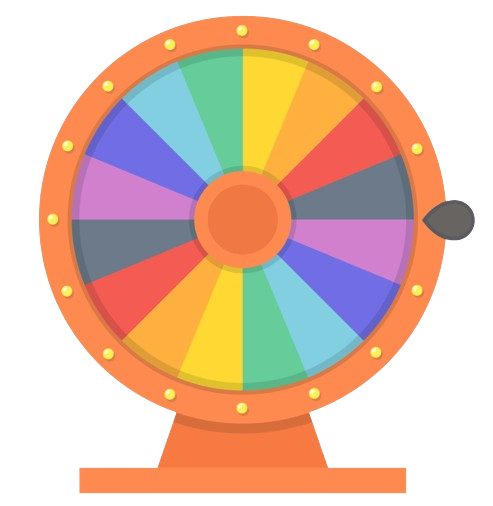
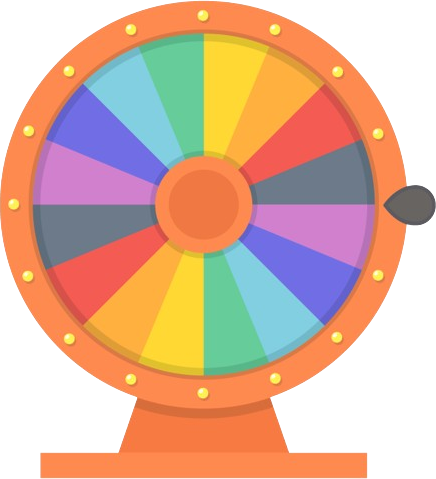
creating folder to make the images be more organized

diff --git a/BussinesTourProject/Pages/GamePage.xaml b/BussinesTourProject/Pages/GamePage.xaml
@@ -1154,8 +1154,8 @@
                    Grid.ColumnSpan="8" Grid.RowSpan="4" Stretch="Fill">
 
             </Image>
-            <Image Source="/Assets\Images\SquareImages\HousesIcons\House1.png" Grid.Column="86" Grid.Row="87" 
-                   Grid.ColumnSpan="8" Grid.RowSpan="4" Stretch="Fill">
+            <Image Source="/Assets\Images\SquareImages\SpecialIcon\RegularPrizeWheel.png" Grid.Column="87" Grid.Row="86" 
+                   Grid.ColumnSpan="6" Grid.RowSpan="5" Stretch="Fill">
 
             </Image>
 
